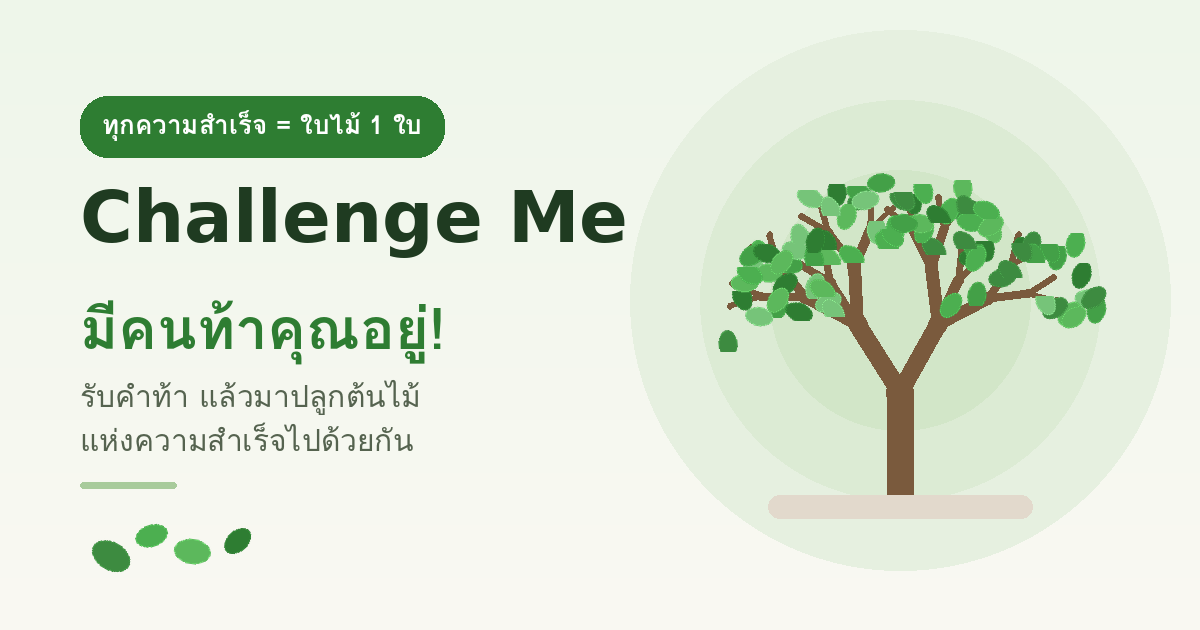
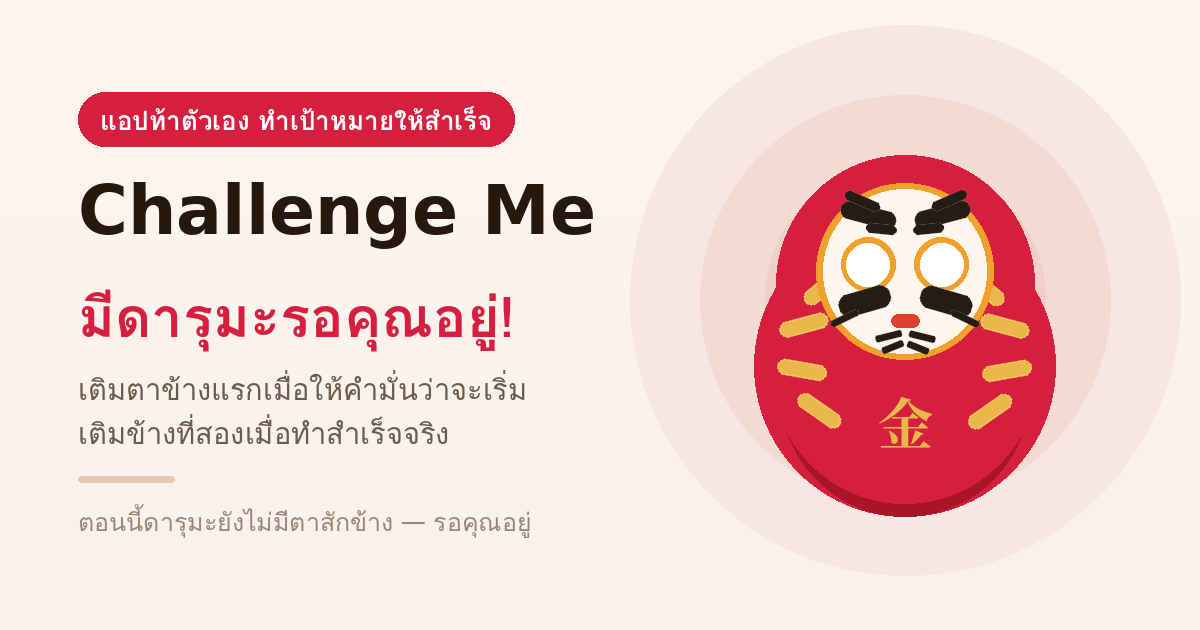
Add files via upload

diff --git a/app/api/invite/[token].js b/app/api/invite/[token].js
@@ -58,9 +58,9 @@ module.exports = async function handler(req, res) {
 <html lang="th"><head><meta charset="utf-8" />
 <title>ไม่พบคำท้านี้ — Challenge Me</title>
 <meta name="viewport" content="width=device-width, initial-scale=1" /></head>
-<body style="font-family:sans-serif;text-align:center;padding:60px 20px;background:#f4f8f1;color:#222;">
+<body style="font-family:sans-serif;text-align:center;padding:60px 20px;background:#fdf8f1;color:#222;">
 <h1>ลิงก์คำท้านี้ไม่พร้อมใช้งานแล้ว</h1>
-<p><a href="${escapeHtml(siteOrigin)}" style="color:#2e7d32;font-weight:700;">ไปที่ Challenge Me</a></p>
+<p><a href="${escapeHtml(siteOrigin)}" style="color:#d61f3f;font-weight:700;">ไปที่ Challenge Me</a></p>
 </body></html>`);
     return;
   }
@@ -81,12 +81,12 @@ module.exports = async function handler(req, res) {
   // บั๊กที่ทำให้ข้อความขาดหายไปทันทีที่เจอเครื่องหมาย " ตัวแรก (ตัดข้อความทั้งหมด
   // หลังจากนั้นทิ้งไปเลย) เคยลองแล้วเจอปัญหานี้จริง จึงเลี่ยงไม่ใช้เครื่องหมาย
   // คำพูดในข้อความเหล่านี้อีกเลย
-  const ogTitle = `🌱 ${inviter} ท้าคุณ — ${title}`;
+  const ogTitle = `🎯 ${inviter} ท้าคุณ — ${title}`;
   const descParts = [];
   if (category) descParts.push(`📂 ${category}`);
   descParts.push(`🎯 เป้าหมาย: ${goal}`);
   if (reward) descParts.push(`🎁 รางวัล: ${reward}`);
-  descParts.push(`ทำสำเร็จ = ได้ใบไม้ 1 ใบบนต้นไม้ของคุณ 🍃 กดรับคำท้าเลย!`);
+  descParts.push(`มีดารุมะรอคุณมาเติมตาให้ครบอยู่ — ทำสำเร็จเมื่อไหร่ ต้นไม้ของคุณได้ใบไม้เพิ่ม 1 ใบ 🍃`);
   const ogDescription = descParts.join("  ·  ");
 
   res.status(200).send(`<!doctype html>
@@ -103,27 +103,27 @@ module.exports = async function handler(req, res) {
   <meta property="og:image" content="${escapeHtml(ogImageUrl)}" />
   <meta property="og:image:width" content="1200" />
   <meta property="og:image:height" content="630" />
-  <meta property="og:image:alt" content="Challenge Me — มีคนท้าคุณอยู่! ทุกความสำเร็จ = ใบไม้ 1 ใบ" />
+  <meta property="og:image:alt" content="Challenge Me — มีดารุมะรอคุณมาเติมตาให้ครบ" />
   <meta name="twitter:card" content="summary_large_image" />
   <meta name="twitter:title" content="${ogTitle}" />
   <meta name="twitter:description" content="${escapeHtml(ogDescription)}" />
   <meta name="twitter:image" content="${escapeHtml(ogImageUrl)}" />
   <style>
-    body { font-family: -apple-system, system-ui, sans-serif; background: #f4f8f1; color: #222; margin: 0; }
+    body { font-family: -apple-system, system-ui, sans-serif; background: #fdf8f1; color: #222; margin: 0; }
     .card { max-width: 480px; margin: 48px auto; background: white; border-radius: 16px; overflow: hidden;
       box-shadow: 0 2px 16px rgba(0,0,0,0.08); text-align: center; }
     .cover { width: 100%; display: block; }
     .content { padding: 28px 24px 32px; }
-    .badge { color: #2e7d32; font-weight: 700; font-size: 14px; }
-    .category { display: inline-block; margin-top: 8px; background: #eaf3e6; color: #2e7d32; font-size: 12px;
+    .badge { color: #d61f3f; font-weight: 700; font-size: 14px; }
+    .category { display: inline-block; margin-top: 8px; background: #fdecef; color: #d61f3f; font-size: 12px;
       font-weight: 700; padding: 4px 10px; border-radius: 999px; }
     h1 { font-size: 22px; margin: 12px 0 8px; }
     p.goal { color: #555; font-size: 15px; }
     p.reward { color: #b45309; font-size: 14px; }
-    a.cta { display: block; margin-top: 24px; background: #2e7d32; color: white; text-decoration: none;
+    a.cta { display: block; margin-top: 24px; background: #d61f3f; color: white; text-decoration: none;
       font-weight: 700; padding: 14px; border-radius: 8px; }
     a.skip { display: block; margin-top: 12px; color: #888; text-decoration: none; font-size: 13px; }
-    p.leafnote { margin-top: 16px; color: #5a6b54; font-size: 13px; background: #f4f8f1;
+    p.leafnote { margin-top: 16px; color: #6b5a4e; font-size: 13px; background: #fdf3ee;
       border-radius: 8px; padding: 10px 12px; }
   </style>
 </head>
@@ -131,13 +131,13 @@ module.exports = async function handler(req, res) {
   <div class="card">
     <img class="cover" src="${escapeHtml(ogImageUrl)}" alt="Challenge Me" />
     <div class="content">
-      <div class="badge">🌱 คำท้าจาก ${inviter}</div>
+      <div class="badge">🎯 คำท้าจาก ${inviter}</div>
       ${category ? `<div><span class="category">${category}</span></div>` : ""}
       <h1>${title}</h1>
       <p class="goal">${goal}</p>
       ${reward ? `<p class="reward">🎁 รางวัล: ${reward}</p>` : ""}
-      <p class="leafnote">ทำสำเร็จเมื่อไหร่ = ได้ใบไม้ 1 ใบไปติดบนต้นไม้ของคุณ 🍃</p>
-      <a class="cta" href="${escapeHtml(appUrl)}">🌱 รับคำท้า — เปิด Challenge Me</a>
+      <p class="leafnote">รับคำท้าแล้วจะได้ดารุมะของคุณเอง — เติมตาข้างแรกตอนให้คำมั่น เติมข้างที่สองตอนทำสำเร็จ แล้วต้นไม้ของคุณจะได้ใบไม้เพิ่ม 1 ใบ 🍃</p>
+      <a class="cta" href="${escapeHtml(appUrl)}">🎯 รับคำท้า — เปิด Challenge Me</a>
       <a class="skip" href="${escapeHtml(siteOrigin)}">ไปที่หน้าแรกแทน</a>
     </div>
   </div>

diff --git a/app/src/screens/GlobalScreen.tsx b/app/src/screens/GlobalScreen.tsx
@@ -1,11 +1,14 @@
 import React, { useCallback, useState } from "react";
-import { View, Text, FlatList, Pressable, StyleSheet, RefreshControl } from "react-native";
+import { View, Text, FlatList, Pressable, StyleSheet, RefreshControl, Linking } from "react-native";
+import { showAlert } from "@/lib/alert";
 import { useFocusEffect, useNavigation } from "@react-navigation/native";
 import type { NativeStackNavigationProp } from "@react-navigation/native-stack";
 import type { RootStackParamList } from "@/navigation/RootNavigator";
 
 import { listPublishedGlobalChallenges } from "@/api/challenges";
 import type { GlobalChallengeRow } from "@/types/database";
+
+const CONTACT_EMAIL = "cvtstat@gmail.com";
 
 // Flow 16 (USER-FLOWS.md §16) — [Global tab]: Featured/Trending/New/Closing Soon
 // (เวอร์ชันนี้แสดงเป็น list เดียวก่อน — แยก section ตาม Master Concept ทำเพิ่มได้
@@ -28,6 +31,23 @@ export default function GlobalScreen() {
     }, [load])
   );
 
+  // เปิดแอปอีเมลของเครื่องพร้อมกรอกผู้รับ/หัวข้อไว้ให้ — ผู้ใช้แค่พิมพ์เนื้อหา
+  // แล้วกดส่ง (ถ้าเครื่องไม่มีแอปอีเมลผูกไว้ จะบอกอีเมลให้ไปส่งเองแทน)
+  async function handleContact() {
+    const subject = encodeURIComponent("อยากร่วมสร้าง Global Challenge กับ Challenge Me");
+    const body = encodeURIComponent(
+      "สวัสดีครับ/ค่ะ\n\nแนะนำตัว (องค์กร/ทีม/บุคคล):\n\nไอเดีย Challenge ที่อยากทำร่วมกัน:\n\nสิ่งที่อยากเปลี่ยน:\n\nช่องทางติดต่อกลับ:\n"
+    );
+    const url = `mailto:${CONTACT_EMAIL}?subject=${subject}&body=${body}`;
+    try {
+      const ok = await Linking.canOpenURL(url);
+      if (!ok) throw new Error("no mail app");
+      await Linking.openURL(url);
+    } catch {
+      showAlert("ส่งอีเมลมาที่", CONTACT_EMAIL);
+    }
+  }
+
   return (
     <FlatList
       contentContainerStyle={styles.list}
@@ -40,6 +60,20 @@ export default function GlobalScreen() {
             <Text style={styles.emptyTitle}>ยังไม่มี Global Challenge ที่เปิดรับสมัคร</Text>
           </View>
         ) : null
+      }
+      ListFooterComponent={
+        <View style={styles.inviteCard}>
+          <Text style={styles.inviteTitle}>
+            ถ้าคุณคือองค์กร ผู้สนใจ หรือคนหนึ่งคนที่อยากเปลี่ยนโลก{"\n"}ส่งความคิดของคุณมาบอกเราสิ?
+          </Text>
+          <Text style={styles.inviteSub}>
+            Global Challenge เกิดจากไอเดียของคนที่อยากเห็นอะไรบางอย่างดีขึ้น — เล่าให้เราฟังได้เลย
+          </Text>
+          <Pressable style={styles.inviteButton} onPress={handleContact}>
+            <Text style={styles.inviteButtonText}>✉ ส่งไอเดียมาหาเรา</Text>
+          </Pressable>
+          <Text style={styles.inviteEmail}>{CONTACT_EMAIL}</Text>
+        </View>
       }
       renderItem={({ item }) => (
         <Pressable
@@ -67,6 +101,26 @@ const styles = StyleSheet.create({
   cardMeta: { color: "#555" },
   cardReward: { color: "#b45309", marginTop: 4 },
   cardBadge: { color: "#e11d48", marginTop: 2 },
-  emptyState: { alignItems: "center", marginTop: 80 },
+  emptyState: { alignItems: "center", marginTop: 60 },
   emptyTitle: { color: "#888" },
+  inviteCard: {
+    marginTop: 20,
+    backgroundColor: "#fdf3ee",
+    borderRadius: 14,
+    padding: 20,
+    alignItems: "center",
+    gap: 8,
+  },
+  inviteTitle: { fontSize: 16, fontWeight: "700", textAlign: "center", lineHeight: 24, color: "#26170f" },
+  inviteSub: { fontSize: 13, color: "#8a7264", textAlign: "center", lineHeight: 19 },
+  inviteButton: {
+    marginTop: 8,
+    backgroundColor: "#d61f3f",
+    borderRadius: 10,
+    paddingVertical: 13,
+    paddingHorizontal: 26,
+    alignSelf: "stretch",
+  },
+  inviteButtonText: { color: "white", fontWeight: "700", textAlign: "center", fontSize: 15 },
+  inviteEmail: { fontSize: 12, color: "#a1897a", marginTop: 2 },
 });

diff --git a/app/src/api/share.ts b/app/src/api/share.ts
@@ -30,14 +30,20 @@ const SHARE_COPY: Record<ShareCardType, (c: ChallengeRow) => string> = {
 export async function generateAndShareCard(challenge: ChallengeRow, type: ShareCardType) {
   const deepLink = `${DEEP_LINK_SCHEME}/${challenge.id}`;
 
-  const { error: insertError } = await supabase.from("share_cards").insert({
-    challenge_id: challenge.id,
-    type,
-    deep_link: deepLink,
-  });
-  if (insertError) return { error: insertError.message };
-
-  // หมายเหตุ (แก้บั๊ก): เดิมเรียก Share ของ React Native ตรง ๆ ซึ่งบนเว็บไม่
+  // หมายเหตุ (แก้บั๊ก — สาเหตุที่ปุ่ม "แชร์ความคืบหน้า" กดแล้วไม่มีอะไรเกิดขึ้น):
+  // เดิมโค้ดตรงนี้ insert แถวลง share_cards ก่อน แล้วถ้า insert ไม่สำเร็จจะ
+  // return ออกทันที ทำให้ไม่มีทางไปถึงบรรทัดที่เปิดกล่องแชร์เลย — และ insert
+  // ก็ไม่สำเร็จจริง ๆ เพราะตาราง share_cards เปิด RLS ไว้ตั้งแต่ 0001 แต่มีแค่
+  // policy สำหรับ select ไม่มี policy สำหรับ insert (บั๊กชนิดเดียวกับตาราง
+  // daruma ที่เคยเจอ) ฝั่ง UI ก็ไม่ได้เอา error ไปแสดง ปุ่มจึงดูเหมือนตายสนิท
+  //
+  // แก้สองชั้น:
+  //   1) ที่นี่ — การแชร์คือสิ่งที่ผู้ใช้ต้องการจริง ๆ ส่วนการบันทึก log เป็น
+  //      เรื่องรอง จึงเปิดกล่องแชร์ก่อนเสมอ แล้วค่อยบันทึกแบบ best-effort
+  //      ต่อให้บันทึกไม่ได้ ผู้ใช้ก็ยังแชร์ได้ตามปกติ
+  //   2) migration 0008 — เพิ่ม RLS policy ให้ insert ได้จริง log จะได้ครบ
+  //
+  // เดิมเรียก Share ของ React Native ตรง ๆ ซึ่งบนเว็บไม่
   // ทำงานเลย (react-native-web ไม่ได้ implement ให้) กดปุ่ม "แชร์ความคืบหน้า"
   // แล้วจึงเงียบสนิท — เปลี่ยนมาใช้ shareContent ที่เด้ง share sheet ของเครื่อง
   // ได้จริงทั้งบนเว็บและบนแอป (ดู lib/share.ts)
@@ -50,7 +56,7 @@ export async function generateAndShareCard(challenge: ChallengeRow, type: ShareC
     ? buildInviteShareUrl(getWebBaseUrl(), challenge.public_invite_token)
     : deepLink;
 
-  await shareContent({
+  const shared = await shareContent({
     title: "Challenge Me",
     message: SHARE_COPY[type](challenge),
     url: webUrl,
@@ -58,5 +64,12 @@ export async function generateAndShareCard(challenge: ChallengeRow, type: ShareC
   });
   // ผู้ใช้ปิด share sheet เองก็ไม่ถือเป็น error ของ flow หลัก (FR14.4)
 
-  return { error: null as string | null };
+  // บันทึก log แบบ best-effort — ล้มเหลวก็ไม่กระทบผู้ใช้
+  await supabase.from("share_cards").insert({
+    challenge_id: challenge.id,
+    type,
+    deep_link: deepLink,
+  });
+
+  return { shared, error: null as string | null };
 }
